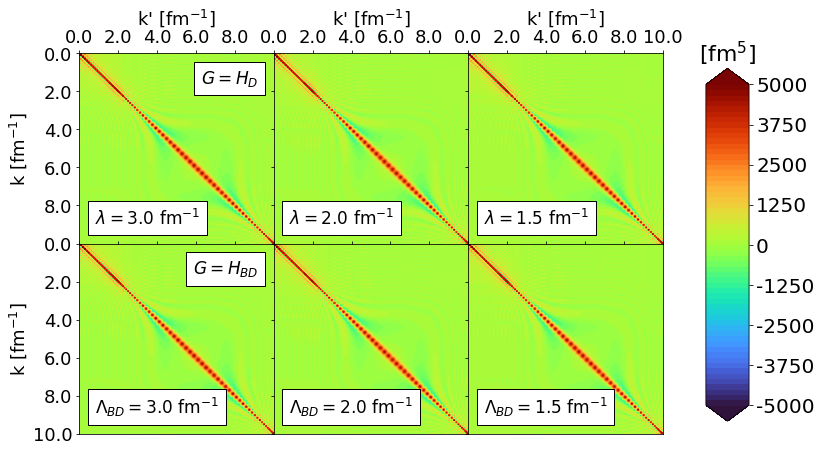
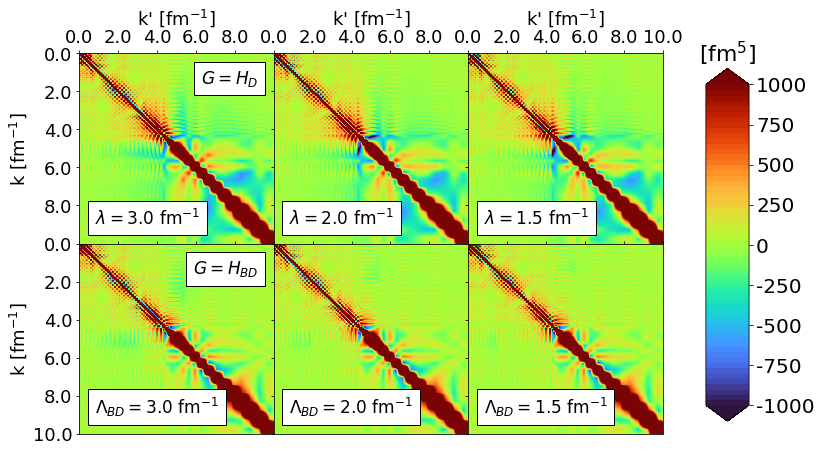
Generating r2_unregulated_with_k_factors
AV18 k-mesh.

diff --git a/test.py b/test.py
@@ -175,8 +175,10 @@ def r2_contours(kvnn, generators, lambda_array, reg=False):
     axes_tick_size = 18
     
     # Colorbar ticks, label, and fontsize
-    mx = 5e2
-    mn = -5e2
+    #mx = 5e2
+    #mn = -5e2
+    mx = 1e3
+    mn = -1e3
     # mx = 5e3
     # mn = -5e3
     #mx = 1e4
@@ -237,7 +239,7 @@ def r2_contours(kvnn, generators, lambda_array, reg=False):
             #k_array_int, operator_diff_int = ff.interpolate_matrix(k_array,
             #                                 operator_diff, axes_max)
             k_array_int, evolved_operator_int = ff.interpolate_matrix(k_array, 
-                                                evolved_operator, axes_max)
+                                                evolved_operator, axes_max+0.3)
         
             # Store in dictionary with generator and lamb as keys
             d[generator][lamb] = evolved_operator_int
@@ -329,7 +331,8 @@ def r2_contours(kvnn, generators, lambda_array, reg=False):
 # --- Fixed variables --- #
 
 kvnns_default = [79, 111, 222]
-kvnn_default = 111
+#kvnn_default = 111
+kvnn_default = 6
 channel_default = '3S1'
 generators = ['Wegner', 'Block-diag']
 
@@ -337,149 +340,149 @@ generators = ['Wegner', 'Block-diag']
 # --- Test regulated operators --- #
 
 
-# # Contours of r^2 operator under RKE N4LO (450 MeV) transformations
-# lambda_array = np.array([3.0, 2.0, 1.5])
-# f, axs = r2_contours(kvnn_default, generators, lambda_array)
+# Contours of r^2 operator under RKE N4LO (450 MeV) transformations
+lambda_array = np.array([3.0, 2.0, 1.5])
+f, axs = r2_contours(kvnn_default, generators, lambda_array)
 
-# # Add generator label to each subplot on the 1st column
-# generator_label_size = 17
-# #generator_label_location = 'center right'
-# generator_label_location = 'upper right'
-# for i, generator in enumerate(generators):
-#     generator_label = ff.generator_label_conversion(generator)
-#     anchored_text = AnchoredText(generator_label, loc=generator_label_location,
-#                                   prop=dict(size=generator_label_size))
-#     axs[i, 0].add_artist(anchored_text)
+# Add generator label to each subplot on the 1st column
+generator_label_size = 17
+#generator_label_location = 'center right'
+generator_label_location = 'upper right'
+for i, generator in enumerate(generators):
+    generator_label = ff.generator_label_conversion(generator)
+    anchored_text = AnchoredText(generator_label, loc=generator_label_location,
+                                  prop=dict(size=generator_label_size))
+    axs[i, 0].add_artist(anchored_text)
 
-# # Add \lambda label to each sub-plot
-# lambda_label_size = 17
-# #lambda_label_location = 'lower right'
-# lambda_label_location = 'lower left'
-# for i, generator in enumerate(generators):
-#     for j, lamb in enumerate(lambda_array):
-#         if generator == 'Block-diag':
-#             # Labels the block-diagonal cutoff \Lambda_BD
-#             lambda_label = ff.lambda_label_conversion(lamb, 
-#                                                       block_diag_bool=True)
-#         else:
-#             # Labels the evolution parameter \lambda
-#             lambda_label = ff.lambda_label_conversion(lamb)
-#         anchored_text = AnchoredText(lambda_label, loc=lambda_label_location,
-#                                      prop=dict(size=lambda_label_size))
-#         axs[i, j].add_artist(anchored_text)
-        
-# Calculate RMS radius of deuteron
-#kvnn = 111
-kvnn = 6
-#evolve = False
-evolve = True
-reg = False
-#reg = True
-H_initial = lsp.load_hamiltonian(kvnn, channel_default)
-H_evolved = lsp.load_hamiltonian(kvnn, channel_default, method='srg',
-                                 generator='Wegner', lamb=2.0)
-U_matrix = SRG_unitary_transformation(H_initial, H_evolved)
-k_array, k_weights = lsp.load_momentum(kvnn, channel_default)
-ntot = len(k_array)
-r_min = 0.005
-r_max = 30.2
-dr = 0.005
-r_array = np.arange(r_min, r_max + dr, dr)
-if evolve:
-    psi = ob.wave_function(H_initial, U=U_matrix)
-    r2_op = r2_operator(k_array, k_weights, r_array, dr, U=U_matrix, reg=reg)
-else:
-    psi = ob.wave_function(H_initial)
-    r2_op = r2_operator(k_array, k_weights, r_array, dr, reg=reg)
-deuteron_radius_exact = ob.rms_radius_from_rspace(psi, r2_op)
-print('r = %.5f fm' % deuteron_radius_exact) # Should give 1.96574 fm
-
-
-# Test strength of regions of r^2 by isolating integral to different
-# regions in k and k'
-
-k_points = np.zeros(11)
-k_points[0] = k_array[0]
-for i in range(1, 10):
-    k_points[i] = i
-k_points[10] = k_array[-1]
-m = len(k_points)
-rel_errors = np.zeros((m, m))
-
-for i, k_init in enumerate(k_points):
-    for j, k_final in enumerate(k_points):
-
-        k_init_index = op.find_q_index(k_init, k_array)
-        k_init_index_l2 = k_init_index+ntot
-        k_final_index = op.find_q_index(k_final, k_array)
-        k_final_index_l2 = k_final_index+ntot
-
-        psi_resized = np.concatenate( (psi[k_init_index:k_final_index], 
-                                       psi[k_init_index_l2:k_final_index_l2]) )
-        r2_ss = r2_op[k_init_index:k_final_index, k_init_index:k_final_index]
-        r2_sd = r2_op[k_init_index:k_final_index,
-                      k_init_index_l2:k_final_index_l2]
-        r2_ds = r2_op[k_init_index_l2:k_final_index_l2,
-                      k_init_index:k_final_index]
-        r2_dd = r2_op[k_init_index_l2:k_final_index_l2,
-                      k_init_index_l2:k_final_index_l2]
-        r2_resized = np.vstack( ( np.hstack( (r2_ss, r2_sd) ),
-                                  np.hstack( (r2_ds, r2_dd) ) ) )
-        deuteron_radius = ob.rms_radius_from_rspace(psi_resized, r2_resized)
-        rel_errors[i, j] = abs( (deuteron_radius-deuteron_radius_exact) / \
-                                 deuteron_radius_exact )
-            
-        # If k_init > k_final then the integral doesn't make any sense
-        # Set rel_error to 0 here
-        if k_init >= k_final:
-            rel_errors[i, j] =  100.0
+# Add \lambda label to each sub-plot
+lambda_label_size = 17
+#lambda_label_location = 'lower right'
+lambda_label_location = 'lower left'
+for i, generator in enumerate(generators):
+    for j, lamb in enumerate(lambda_array):
+        if generator == 'Block-diag':
+            # Labels the block-diagonal cutoff \Lambda_BD
+            lambda_label = ff.lambda_label_conversion(lamb, 
+                                                      block_diag_bool=True)
         else:
-            print('k_init=%.1f, k_final=%.1f, rel_err=%.3f'%(k_init,k_final,
-                                                             rel_errors[i,j]))
+            # Labels the evolution parameter \lambda
+            lambda_label = ff.lambda_label_conversion(lamb)
+        anchored_text = AnchoredText(lambda_label, loc=lambda_label_location,
+                                      prop=dict(size=lambda_label_size))
+        axs[i, j].add_artist(anchored_text)
+        
+# # Calculate RMS radius of deuteron
+# #kvnn = 111
+# kvnn = 6
+# #evolve = False
+# evolve = True
+# reg = False
+# #reg = True
+# H_initial = lsp.load_hamiltonian(kvnn, channel_default)
+# H_evolved = lsp.load_hamiltonian(kvnn, channel_default, method='srg',
+#                                  generator='Wegner', lamb=2.0)
+# U_matrix = SRG_unitary_transformation(H_initial, H_evolved)
+# k_array, k_weights = lsp.load_momentum(kvnn, channel_default)
+# ntot = len(k_array)
+# r_min = 0.005
+# r_max = 30.2
+# dr = 0.005
+# r_array = np.arange(r_min, r_max + dr, dr)
+# if evolve:
+#     psi = ob.wave_function(H_initial, U=U_matrix)
+#     r2_op = r2_operator(k_array, k_weights, r_array, dr, U=U_matrix, reg=reg)
+# else:
+#     psi = ob.wave_function(H_initial)
+#     r2_op = r2_operator(k_array, k_weights, r_array, dr, reg=reg)
+# deuteron_radius_exact = ob.rms_radius_from_rspace(psi, r2_op)
+# print('r = %.5f fm' % deuteron_radius_exact) # Should give 1.96574 fm
+
+
+# # Test strength of regions of r^2 by isolating integral to different
+# # regions in k and k'
+
+# k_points = np.zeros(11)
+# k_points[0] = k_array[0]
+# for i in range(1, 10):
+#     k_points[i] = i
+# k_points[10] = k_array[-1]
+# m = len(k_points)
+# rel_errors = np.zeros((m, m))
+
+# for i, k_init in enumerate(k_points):
+#     for j, k_final in enumerate(k_points):
+
+#         k_init_index = op.find_q_index(k_init, k_array)
+#         k_init_index_l2 = k_init_index+ntot
+#         k_final_index = op.find_q_index(k_final, k_array)
+#         k_final_index_l2 = k_final_index+ntot
+
+#         psi_resized = np.concatenate( (psi[k_init_index:k_final_index], 
+#                                        psi[k_init_index_l2:k_final_index_l2]) )
+#         r2_ss = r2_op[k_init_index:k_final_index, k_init_index:k_final_index]
+#         r2_sd = r2_op[k_init_index:k_final_index,
+#                       k_init_index_l2:k_final_index_l2]
+#         r2_ds = r2_op[k_init_index_l2:k_final_index_l2,
+#                       k_init_index:k_final_index]
+#         r2_dd = r2_op[k_init_index_l2:k_final_index_l2,
+#                       k_init_index_l2:k_final_index_l2]
+#         r2_resized = np.vstack( ( np.hstack( (r2_ss, r2_sd) ),
+#                                   np.hstack( (r2_ds, r2_dd) ) ) )
+#         deuteron_radius = ob.rms_radius_from_rspace(psi_resized, r2_resized)
+#         rel_errors[i, j] = abs( (deuteron_radius-deuteron_radius_exact) / \
+#                                  deuteron_radius_exact )
             
-# Plot the relative errors as a contour
+#         # If k_init > k_final then the integral doesn't make any sense
+#         # Set rel_error to 0 here
+#         if k_init >= k_final:
+#             rel_errors[i, j] =  100.0
+#         else:
+#             print('k_init=%.1f, k_final=%.1f, rel_err=%.3f'%(k_init,k_final,
+#                                                              rel_errors[i,j]))
+            
+# # Plot the relative errors as a contour
 
-plt.close('all')
-f, ax = plt.subplots(figsize=(4, 4))
+# plt.close('all')
+# f, ax = plt.subplots(figsize=(4, 4))
 
-mx = 1.0
-mn = 0.0
+# mx = 1.0
+# mn = 0.0
 
-c = ax.pcolor(k_points, k_points, rel_errors, vmin=mn, vmax=mx, cmap='Blues')
+# c = ax.pcolor(k_points, k_points, rel_errors, vmin=mn, vmax=mx, cmap='Blues')
 
-size = 16
-ax.set_ylabel(r'$\Lambda_{initial}$' + ' fm' + r'$^{-1}$', fontsize=size)
-ax.set_xlabel(r'$\Lambda_{final}$' + ' fm' + r'$^{-1}$', fontsize=size)
+# size = 16
+# ax.set_ylabel(r'$\Lambda_{initial}$' + ' fm' + r'$^{-1}$', fontsize=size)
+# ax.set_xlabel(r'$\Lambda_{final}$' + ' fm' + r'$^{-1}$', fontsize=size)
                                          
-# Set colorbar axe
-f.subplots_adjust(right=0.8) # Adjust for colorbar space
-cbar_ax = f.add_axes( (0.85, 0.15, 0.05, 0.7) )
+# # Set colorbar axe
+# f.subplots_adjust(right=0.8) # Adjust for colorbar space
+# cbar_ax = f.add_axes( (0.85, 0.15, 0.05, 0.7) )
                                          
-# Set colorbar
-cbar = f.colorbar(c, cax=cbar_ax)
+# # Set colorbar
+# cbar = f.colorbar(c, cax=cbar_ax)
 
-plt.show()
+# plt.show()
 
 
-# Plot the relative errors as a scatter plot holding \Lambda_init = 0.0
+# # Plot the relative errors as a scatter plot holding \Lambda_init = 0.0
 
-plt.close('all')
-f, ax = plt.subplots(figsize=(4, 4))
+# plt.close('all')
+# f, ax = plt.subplots(figsize=(4, 4))
 
-blue_label = r'$\Lambda_{initial}=0$' + ' fm' + r'$^{-1}$' + ', vary ' + \
-             r'$\Lambda_{final}$'
-red_label = r'$\Lambda_{final}=10$' + ' fm' + r'$^{-1}$' + ', vary ' + \
-            r'$\Lambda_{initial}$'           
+# blue_label = r'$\Lambda_{initial}=0$' + ' fm' + r'$^{-1}$' + ', vary ' + \
+#              r'$\Lambda_{final}$'
+# red_label = r'$\Lambda_{final}=10$' + ' fm' + r'$^{-1}$' + ', vary ' + \
+#             r'$\Lambda_{initial}$'           
              
-ax.scatter(k_points, rel_errors[0, :], color='xkcd:blue', marker='o',
-           label=blue_label)
-ax.scatter(k_points, rel_errors[:, m-1], color='xkcd:red', marker='s',
-           label=red_label)
-ax.axhline(y=0.0, color='xkcd:black', linestyle='dotted')
-ax.legend()
-ax.set_xlim([-0.1, 10.1])
-ax.set_ylim([-0.1, 1.1])
-ax.set_ylabel('Relative error')
-ax.set_xlabel(r'$\Lambda$' + ' fm' + r'$^{-1}$')
+# ax.scatter(k_points, rel_errors[0, :], color='xkcd:blue', marker='o',
+#            label=blue_label)
+# ax.scatter(k_points, rel_errors[:, m-1], color='xkcd:red', marker='s',
+#            label=red_label)
+# ax.axhline(y=0.0, color='xkcd:black', linestyle='dotted')
+# ax.legend()
+# ax.set_xlim([-0.1, 10.1])
+# ax.set_ylim([-0.1, 1.1])
+# ax.set_ylabel('Relative error')
+# ax.set_xlabel(r'$\Lambda$' + ' fm' + r'$^{-1}$')
 
-plt.show()
+# plt.show()
